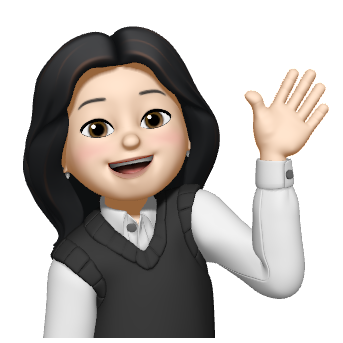
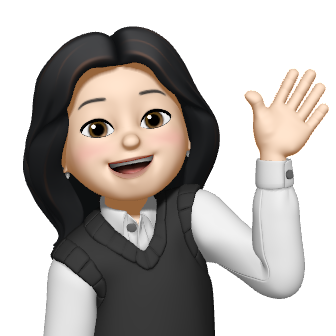
style: image 변경

diff --git a/src/components/About.js b/src/components/About.js
@@ -34,12 +34,6 @@ const Intro = styled.div`
   text-align: center;
 `;
 
-const Interest = styled.div`
-  width: 100%;
-  height: 30%;
-  border: 1px solid red;
-`;
-
 const Main = styled.div`
   display: flex;
   flex-direction: column;
@@ -73,13 +67,14 @@ const Container = styled.div`
   flex-direction: column;
 
   img {
-    width: 250px;
-    height: 250px;
+    width: 220px;
+    height: 220px;
     margin: 20px auto;
     border-radius: 50%;
-    background: gray;
-    box-shadow: rgba(0, 0, 0, 0.25) 0px 14px 28px,
-      rgba(0, 0, 0, 0.22) 0px 10px 10px;
+    background: #bababa;
+    // border: 5px solid #595959;
+    box-shadow: rgba(14, 30, 37, 0.12) 0px 2px 4px 0px,
+      rgba(14, 30, 37, 0.32) 0px 2px 16px 0px;
   }
 `;
 
